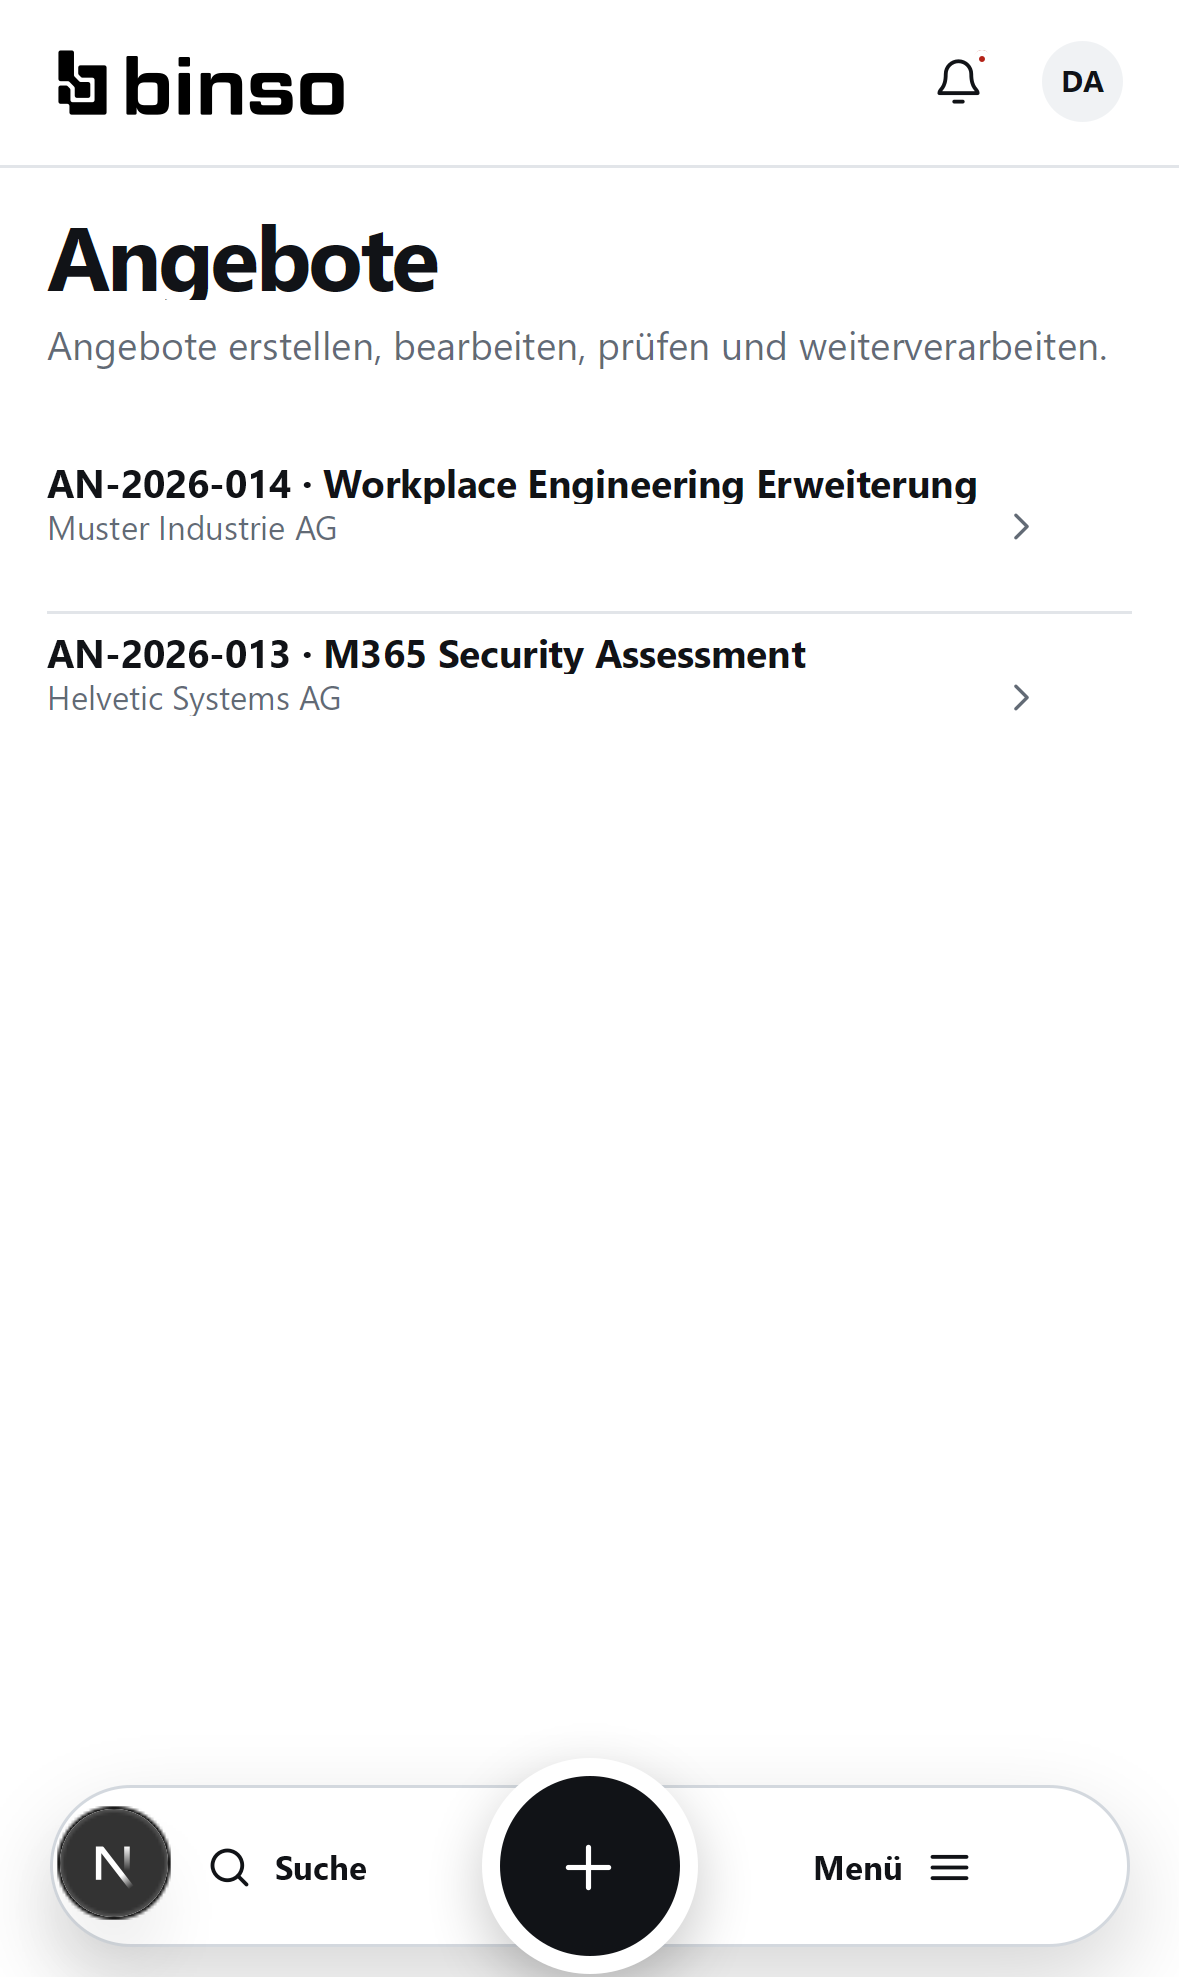
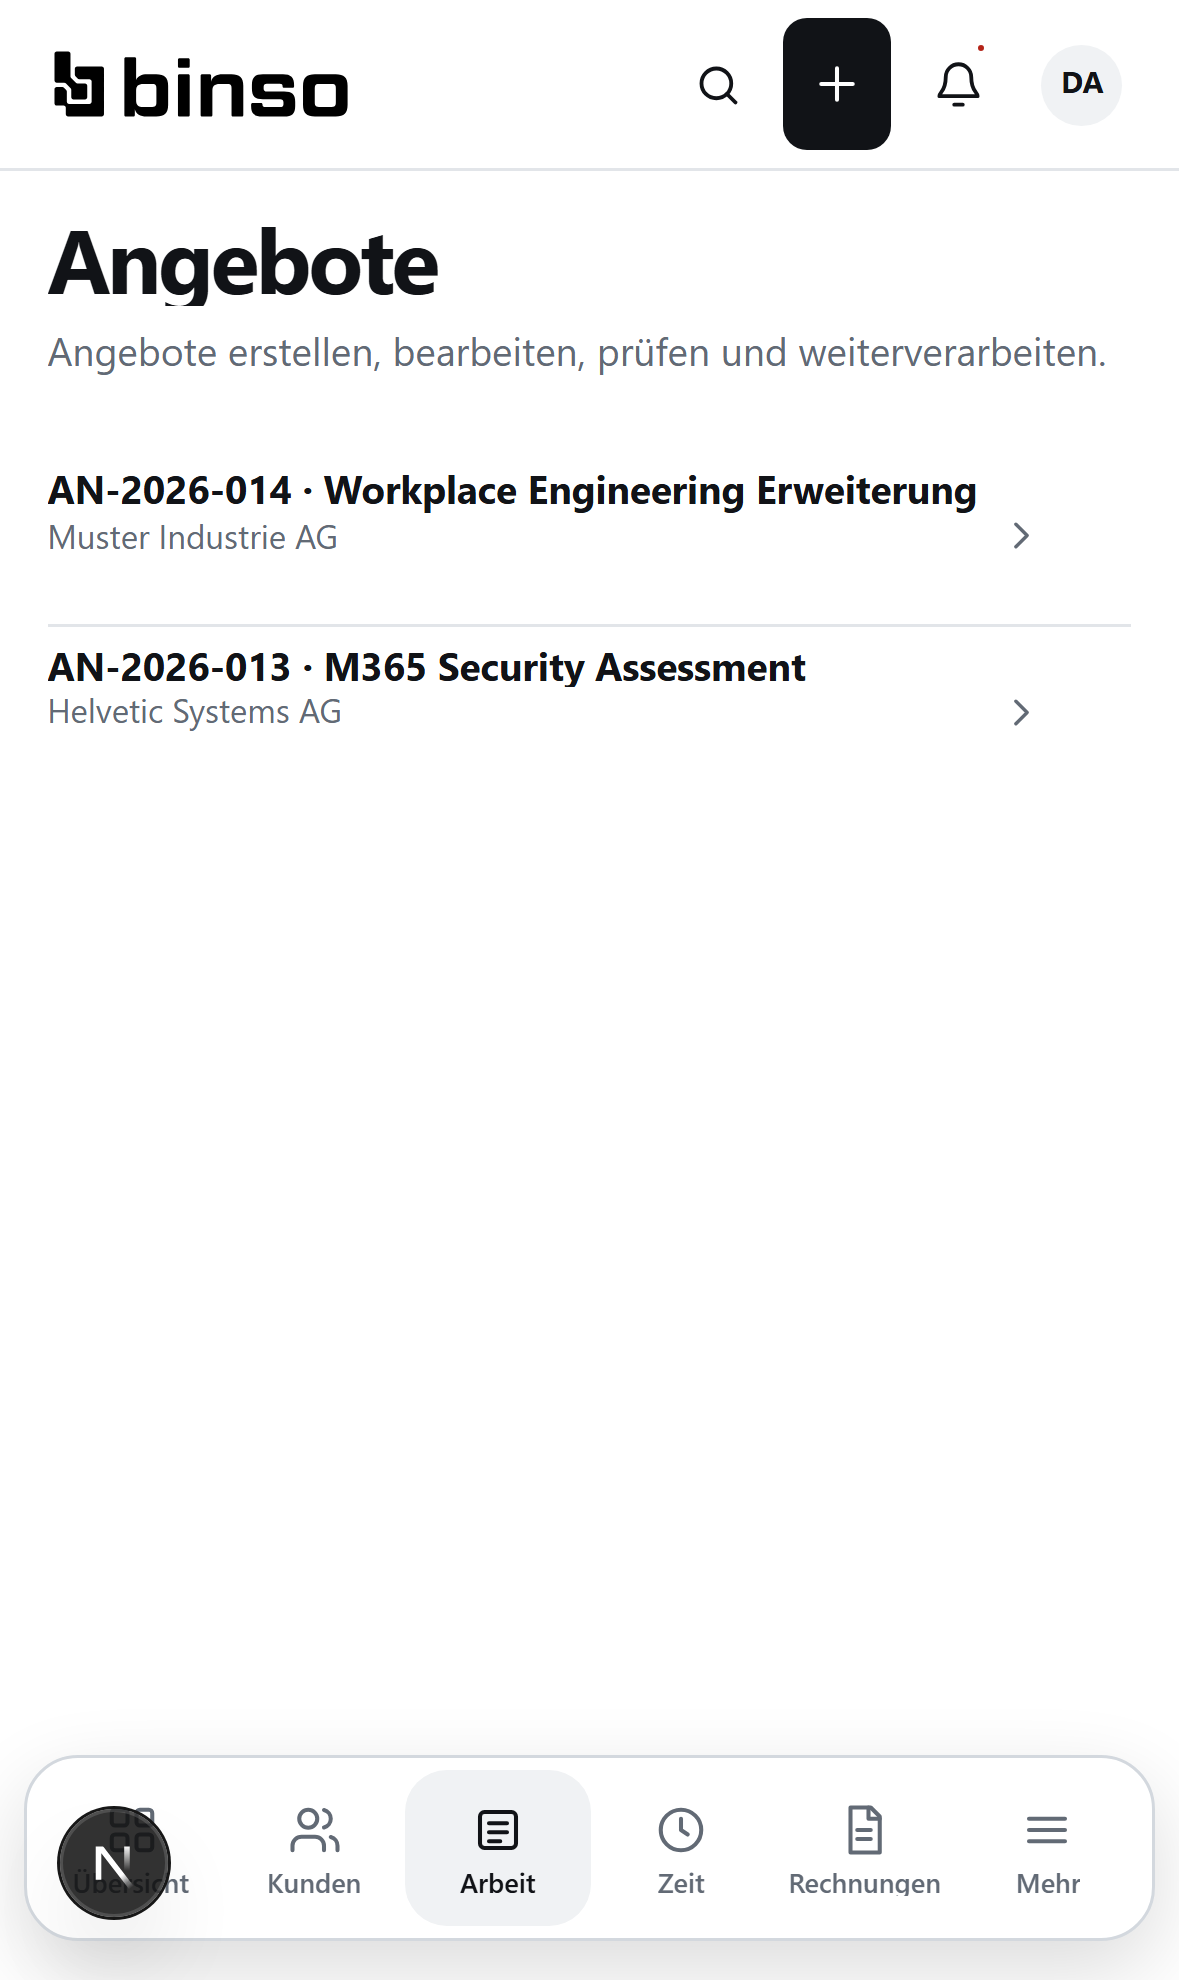
V82.0.6 replace marketing mockups with raw product screenshots

diff --git a/tests/marketing/marketing-screenshots.spec.ts b/tests/marketing/marketing-screenshots.spec.ts
@@ -24,7 +24,7 @@ test('landing page', async ({ page }, testInfo) => {
 
 test('login', async ({ page }, testInfo) => {
   await page.goto('/sign-in?preview=1')
-  await expect(page.getByRole('heading', { name: 'Binso One öffnen' })).toBeVisible()
+  await expect(page.getByRole('heading', { level: 1 })).toBeVisible()
   await page.screenshot({ path: `${outputDir}/login-${suffix(testInfo.project.name)}.png`, fullPage: true, animations: 'disabled' })
 })
 

diff --git a/playwright.marketing.config.ts b/playwright.marketing.config.ts
@@ -25,6 +25,6 @@ export default defineConfig({
   },
   projects: [
     { name: 'marketing-desktop', use: { ...devices['Desktop Chrome'], viewport: { width: 1440, height: 1100 } } },
-    { name: 'marketing-mobile', use: { ...devices['iPhone 15 Pro'] } },
+    { name: 'marketing-mobile', use: { ...devices['iPhone 15 Pro'], browserName: 'chromium' } },
   ],
 })
